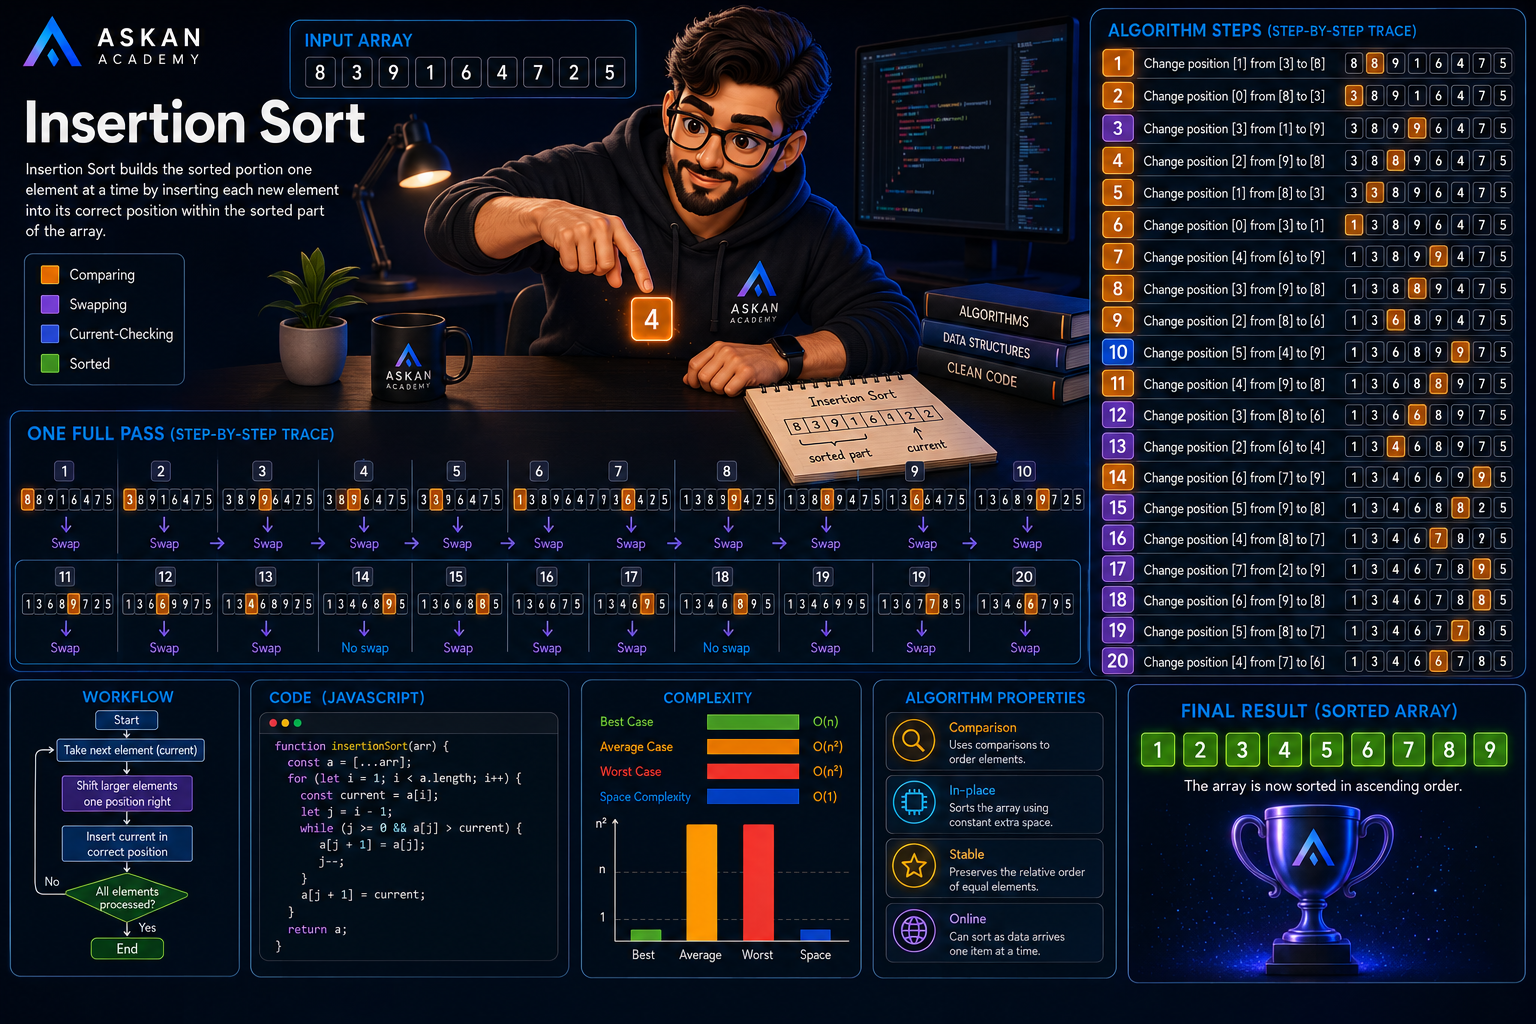
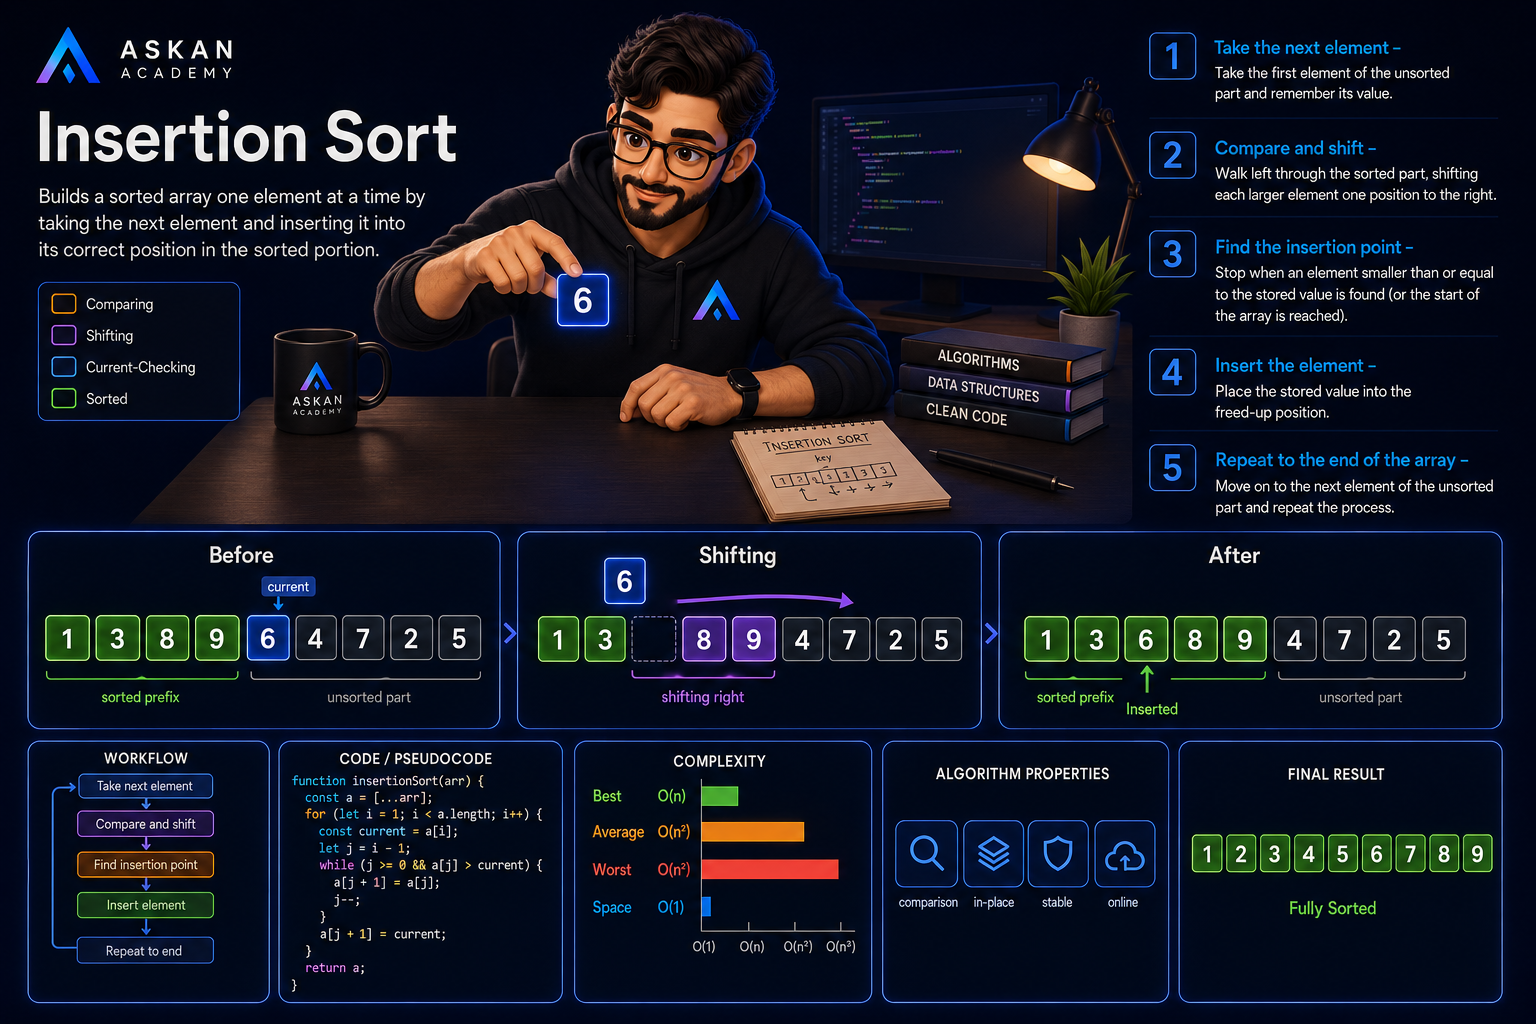
feat(algorithms): add hero illustrations for Merge/Heap/Quick Sort, refine brand mark
Regenerated Insertion/Selection Sort illustrations with the corrected
trace-continuity prompts, added Merge/Heap/Quick Sort. All five verified
against image-prompts/*.txt ground truth (arrays, swap sequences,
complexity, properties, code).

BrandMark now matches the triangular "A" logo used in the illustrations
(gradient chevron + floating diamond) instead of the old node-graph icon.

diff --git a/src/components/BrandMark.jsx b/src/components/BrandMark.jsx
@@ -1,4 +1,8 @@
+import { useId } from 'react';
+
 export function BrandMark({ size = 28 }) {
+  const gradientId = useId();
+
   return (
     <svg
       className="brand-mark"
@@ -8,20 +12,21 @@ export function BrandMark({ size = 28 }) {
       fill="none"
       aria-hidden="true"
     >
-      <line x1="16" y1="16" x2="16" y2="6.4" stroke="currentColor" strokeWidth="1.6" strokeLinecap="round" opacity="0.85" />
-      <line x1="16" y1="16" x2="7.4" y2="21.8" stroke="currentColor" strokeWidth="1.6" strokeLinecap="round" opacity="0.85" />
-      <line x1="16" y1="16" x2="24.6" y2="21.8" stroke="currentColor" strokeWidth="1.6" strokeLinecap="round" opacity="0.85" />
+      <defs>
+        <linearGradient id={gradientId} x1="5" y1="24" x2="27" y2="4" gradientUnits="userSpaceOnUse">
+          <stop offset="0%" stopColor="#a855f7" />
+          <stop offset="35%" stopColor="#3b82f6" />
+          <stop offset="100%" stopColor="#22d3ee" />
+        </linearGradient>
+      </defs>
       <polygon
-        points="16 11.5 20 14 20 18 16 20.5 12 18 12 14"
-        fill="currentColor"
-        fillOpacity="0.16"
-        stroke="currentColor"
-        strokeWidth="1.6"
-        strokeLinejoin="round"
+        points="16 4, 27 24, 23.3 24, 16 12, 8.7 24, 5 24"
+        fill={`url(#${gradientId})`}
       />
-      <circle cx="16" cy="6.4" r="2.1" fill="currentColor" />
-      <circle cx="7.4" cy="21.8" r="2.1" fill="currentColor" />
-      <circle cx="24.6" cy="21.8" r="2.1" fill="currentColor" />
+      <polygon
+        points="16 17.5, 18.2 20.8, 16 24.2, 13.8 20.8"
+        fill={`url(#${gradientId})`}
+      />
     </svg>
   );
 }
